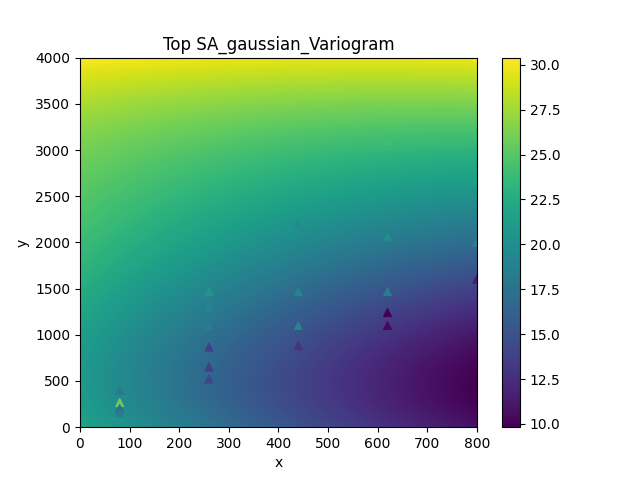
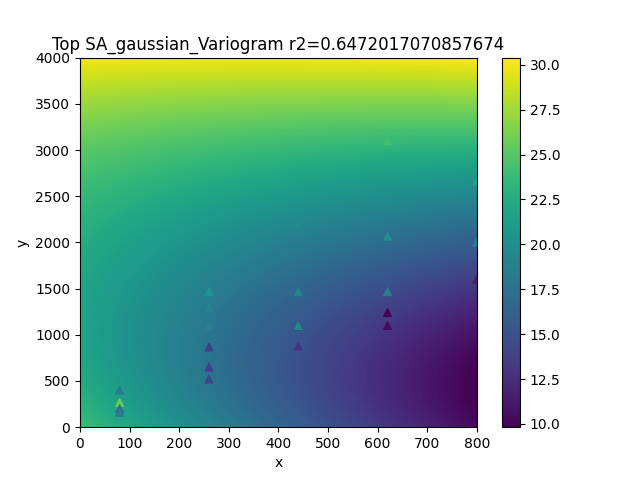
working on uk

Changed region(s): [[0.0938, 0.0625, 0.7812, 0.125], [0.125, 0.2812, 0.2188, 0.4688]]

diff --git a/v.03 Optimization of Surface Roughness/Classes.py b/v.03 Optimization of Surface Roughness/Classes.py
@@ -34,15 +34,18 @@ class OrdinaryKrigning:
             print('No valid variogram model selected')
             quit()
 
-
-
         self.vVariogram = np.vectorize(Variogram,otypes=[float])
+
+
 
     def ManualParamSet(self,C,a,nugget,anisotropy_factor):
         self.a=a
         self.anisotropy_factor=anisotropy_factor
         self.C=C
         self.nugget=nugget
+
+
+
     def Matrixsetup(self):
         # Compute the pairwise distance matrix
         distances = np.sqrt((self.points[:, None, 0] - self.points[None, :, 0]) ** 2 + 
@@ -59,6 +62,9 @@ class OrdinaryKrigning:
         result = result + np.eye(result.shape[0]) * self.nugget
 
         self.result=result
+
+
+
     def SinglePoint(self,Xo,Yo,training_points=None):
         if training_points is None:
             training_points = self.points
@@ -75,8 +81,31 @@ class OrdinaryKrigning:
 
         lamd=np.delete(lamd,-1)
 
-        zout=np.dot(lamd,self.zvals.T) 
-        return zout 
+        zout=np.dot(lamd,self.zvals.T)
+        return zout
+        
+
+    def SinglePointStdDev(self,Xo,Yo,training_points=None):
+        if training_points is None:
+            training_points = self.points    
+        self.std_dev = np.sqrt(self.C - np.dot(lamd, vectorb[:-1]))
+        
+        point0 = np.array([Xo, Yo])
+
+        distances_to_point0 = np.sqrt((training_points[:, 0] - Xo) ** 2 + (training_points[:, 1] - Yo) ** 2 / self.anisotropy_factor ** 2)
+
+        vectorb = self.vVariogram(distances_to_point0, self.a,self.C)
+
+        vectorb = np.append(vectorb, 1)
+
+        lamd=linalg.solve(self.result,vectorb,assume_a='sym')
+
+        lamd=np.delete(lamd,-1)
+
+        std_dev = np.sqrt(self.C - np.dot(lamd, vectorb[:-1]))
+        
+        return std_dev
+    
     def interpgrid(self, xmin, xmax, ymin, ymax, step):
         def __guess(point0):
             distances_to_point0 = np.sqrt(np.sum((self.points - point0) ** 2, axis=1))
@@ -105,10 +134,12 @@ class OrdinaryKrigning:
 
         z = SingleGuess(points_to_estimate)
 
-        # Reshape the results to match the shape of the original grid
         z = z.reshape(X.shape)
+
         return z
     
+
+
     def AutoOptimize(self, InitialParams=None):
         if InitialParams is None:
             InitialParams = [np.var(self.zvals), np.max(np.sqrt(np.sum((self.points[:, None, :] - self.points[None, :, :]) ** 2, axis=-1)))/2, .001, 1]
@@ -116,28 +147,31 @@ class OrdinaryKrigning:
         self.ManualParamSet(*InitialParams)
         self.params=InitialParams 
 
-        def mseLOO(params):    
+        def calc_r_squared(params):    
             C, a, nugget, anisotropy_factor = params
-            errors = []
+            predictions = []
             for i in range(len(self.points)):
-                left_out_point = self.points[i]
-                left_out_value = self.zvals[i]
-                # Perform Kriging with all points except the left-out one
                 model = OrdinaryKrigning(np.delete(self.points, i, axis=0), np.delete(self.zvals, i))
                 model.ManualParamSet(*params)
                 model.Matrixsetup()
-                estimate = model.SinglePoint(*left_out_point)
-                errors.append((estimate - left_out_value)**2)
-            self.krigemse = np.mean(errors)
-            return self.krigemse
+                estimate = model.SinglePoint(*self.points[i])
+                predictions.append(estimate)
+            correlation_matrix = np.corrcoef(predictions, self.zvals)
+            correlation_xy = correlation_matrix[0,1]
+            self.LOOr2 = correlation_xy**2
+            
+            return 1 - self.LOOr2  # We subtract from 1 because we want to minimize the function
 
         # Perform the optimization
-        result = minimize(mseLOO, self.params,method='L-BFGS-B')
+        result = minimize(calc_r_squared, self.params,method='L-BFGS-B')
         C_opt, a_opt, nugget_opt, anisotropy_factor_opt = result.x
         self.a=a_opt
         self.anisotropy_factor=anisotropy_factor_opt
         self.C=C_opt
-        self.nugget=nugget_opt     
+        self.nugget=nugget_opt
+    
+
+
     def AutoKrige(self,step=1):
         t0 = time.time()
 
@@ -148,6 +182,9 @@ class OrdinaryKrigning:
         t1 = time.time()
         self.exetime = t1-t0
         return self.zarray
+    
+
+
     def Plot(self,title='Insert_Title',xtitle='',ytitle='',saveplot=False,address='',extent=[]):
         try:
             self.zarray
@@ -165,22 +202,51 @@ class OrdinaryKrigning:
         plt.show()
 
 
+
+
+
+
+
 class UniversalKriging(OrdinaryKrigning):
-    def __init__(self, Points, Zvals, Variogram='gaussian'):
+    def __init__(self, Points, Zvals, Variogram='gaussian',trendfunc='cubic'):
         super().__init__(Points, Zvals, Variogram)
         
-        # Define the trend function
-        self.trend_function = lambda trend_params, x, y: trend_params[0] + trend_params[1]*x + trend_params[2]*y + trend_params[3]*x**2 + trend_params[4]*y**2
+        if trendfunc == 'quadratic':
+            def trend_func(trend_params, x, y):
+                return trend_params[0] + trend_params[1]*x + trend_params[2]*y + trend_params[3]*x**2 + trend_params[4]*y**2
+        elif trendfunc == 'cubic':
+            def trend_func(trend_params, x, y):
+                return trend_params[0] + trend_params[1]*x + trend_params[2]*y + trend_params[3]*x**2 + trend_params[4]*y**2 + trend_params[5]*x**3 + trend_params[6]*y**3
+        elif trendfunc == 'sinusoidal':
+            def trend_func(trend_params, x, y):
+                return trend_params[0] + trend_params[1]*np.sin(x) + trend_params[2]*np.sin(y)
+        elif trendfunc == 'logarithmic':
+            def trend_func(trend_params, x, y):
+                return trend_params[0] + trend_params[1]*np.log(x) + trend_params[2]*np.log(y)
+        elif trendfunc == 'exponential':
+            def trend_func(trend_params, x, y):
+                return trend_params[0] * np.exp(trend_params[1]*x + trend_params[2]*y)
+        elif trendfunc == 'mixed':
+            def trend_func(trend_params, x, y):
+                return trend_params[0] + trend_params[1]*x + trend_params[2]*y + trend_params[3]*x**2 + trend_params[4]*y**2 + trend_params[5]*np.sin(x) + trend_params[6]*np.sin(y)
+        else:
+            print('No valid trend function selected')
+            quit()
+            
+        self.trend_function = np.vectorize(trend_func, excluded=['trend_params'])
+
 
     def calc_trend_coefficients(self):
         # Define the residuals function
-        residuals = lambda trend_params: self.trend_function(trend_params, self.points[:, 0], self.points[:, 1]) - self.zvals
+        residuals = np.vectorize(lambda trend_params: self.trend_function(trend_params, self.points[:, 0], self.points[:, 1] / self.anisotropy_factor) - self.zvals)
 
         # Estimate the trend parameters
-        self.trend_params, _, _, _ = np.linalg.lstsq(np.column_stack((np.ones(len(self.points)), self.points[:, 0], self.points[:, 1], self.points[:, 0]**2, self.points[:, 1]**2)), self.zvals, rcond=None)
+        self.trend_params, _, _, _ = np.linalg.lstsq(np.column_stack((np.ones(len(self.points)), self.points[:, 0], self.points[:, 1] / self.anisotropy_factor, self.points[:, 0]**2, (self.points[:, 1] / self.anisotropy_factor)**2)), self.zvals, rcond=None)
         
         # Subtract the estimated trend from the data
-        self.zvals -= self.trend_function(self.trend_params, self.points[:, 0], self.points[:, 1])
+        self.zvals -= self.trend_function(self.trend_params, self.points[:, 0], self.points[:, 1] / self.anisotropy_factor)
+
+
 
     def SinglePoint(self, Xo, Yo, training_points=None):
         # First, add back the trend to the actual observations
@@ -189,15 +255,77 @@ class UniversalKriging(OrdinaryKrigning):
         # Perform kriging on detrended data and add the trend back
         return super().SinglePoint(Xo, Yo, training_points) + self.trend_function(self.trend_params, Xo, Yo)
 
-    def interpgrid(self, xmin, xmax, ymin, ymax, step):
-        # Perform kriging on detrended data
-        z = super().interpgrid(xmin, xmax, ymin, ymax, step)
 
-        # Add the trend back to the kriging estimates
+
+    def interpgrid(self, xmin, xmax, ymin, ymax, step):
         x_range = np.arange(xmin, xmax, step)
         y_range = np.arange(ymin, ymax, step)
+
+        # Create a grid of points
         X, Y = np.meshgrid(x_range, y_range)
-        z += self.trend_function(self.trend_params, X, Y)
-        
-        return z
+
+        # Stack the points into a 2D array
+        points_to_estimate = np.column_stack((X.flatten(), Y.flatten()))
+
+        # Initialize an empty array for the results
+        z = np.empty(points_to_estimate.shape[0])
+
+        # For each point in the grid
+        for i, point in enumerate(points_to_estimate):
+            # Get the kriging estimate for the point
+            z[i] = self.SinglePoint(*point)
+
+        # Add the trend back to the kriging estimates
+        z += self.trend_function(self.trend_params, X.flatten(), Y.flatten())
+
+        # Reshape the results to match the shape of the original grid
+        self.zarray = z.reshape(X.shape)
+
+        return self.zarray
+
+
+
+    def AutoOptimize(self, InitialParams=None):
+        if InitialParams is None:
+            InitialParams = [np.var(self.zvals), np.max(np.sqrt(np.sum((self.points[:, None, :] - self.points[None, :, :]) ** 2, axis=-1)))/2, .001, 1]
+
+        self.ManualParamSet(*InitialParams)
+        self.params=InitialParams 
+
+        def calc_r_squared(params):    
+            C, a, nugget, anisotropy_factor = params
+            predictions = []
+            for i in range(len(self.points)):
+                model = UniversalKriging(np.delete(self.points, i, axis=0), np.delete(self.zvals, i))
+                model.ManualParamSet(*params)
+                model.Matrixsetup()
+                model.calc_trend_coefficients()
+                estimate = model.SinglePoint(*self.points[i])
+                predictions.append(estimate)
+            correlation_matrix = np.corrcoef(predictions, self.zvals)
+            correlation_xy = correlation_matrix[0,1]
+            self.LOOr2 = correlation_xy**2
+            
+            return 1 - self.LOOr2  # We subtract from 1 because we want to minimize the function
+
+        # Perform the optimization
+        result = minimize(calc_r_squared, self.params,method='L-BFGS-B')
+        C_opt, a_opt, nugget_opt, anisotropy_factor_opt = result.x
+        self.a=a_opt
+        self.anisotropy_factor=anisotropy_factor_opt
+        self.C=C_opt
+        self.nugget=nugget_opt
+
+
+
+    def AutoKrige(self,step=1):
+        t0 = time.time()
+        self.AutoOptimize()
+        self.calc_trend_coefficients()
+        self.Matrixsetup()
+        self.zarray=self.interpgrid(xmax=np.max(self.points[:,0]),xmin=np.min(self.points[:,0]),ymax=np.max(self.points[:,1]),ymin=np.min(self.points[:,1]),step=step)
+        t1 = time.time()
+        self.exetime = t1-t0
+        return self.zarray
+            
 

diff --git a/v.03 Optimization of Surface Roughness/kriging_main.py b/v.03 Optimization of Surface Roughness/kriging_main.py
@@ -12,7 +12,7 @@ zi_col=4
 resolution=10
 #kriging config
 Params=[]
-Variogram='gaussian'
+Variogram='power'
 #plotting
 saveplot=True
 
@@ -21,8 +21,8 @@ loadeddata=np.loadtxt('v.03 Optimization of Surface Roughness\data\surface_rough
 points=loadeddata[:,[xi_col,yi_col]]
 zi=loadeddata[:,zi_col]
 
-krige=OrdinaryKrigning(points,zi,Variogram=Variogram)
+krige=UniversalKriging(points,zi,Variogram=Variogram)
 krige.AutoKrige(step=resolution)
-krige.Plot(f'Top SA_{Variogram}_Variogram',xtitle='x',ytitle='y',saveplot=saveplot,address=f'v.03 Optimization of Surface Roughness\\figs\\Top_SA_{Variogram}.png',extent=[0, 800, 0, 4000])
-print(krige.krigemse)
+krige.Plot(f'Top SA_{Variogram}_Variogram_UK r2={krige.LOOr2}',xtitle='x',ytitle='y',saveplot=saveplot,address=f'v.03 Optimization of Surface Roughness\\figs\\Top_SA_{Variogram}_UK.png',extent=[0, 800, 0, 4000])
+print(krige.LOOr2)
 print(krige.params)
